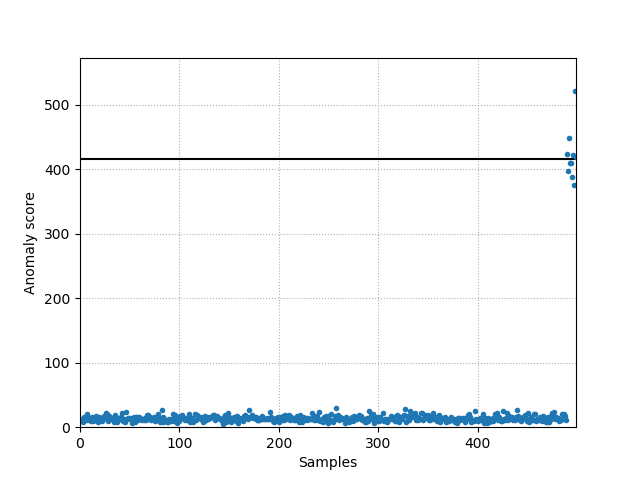
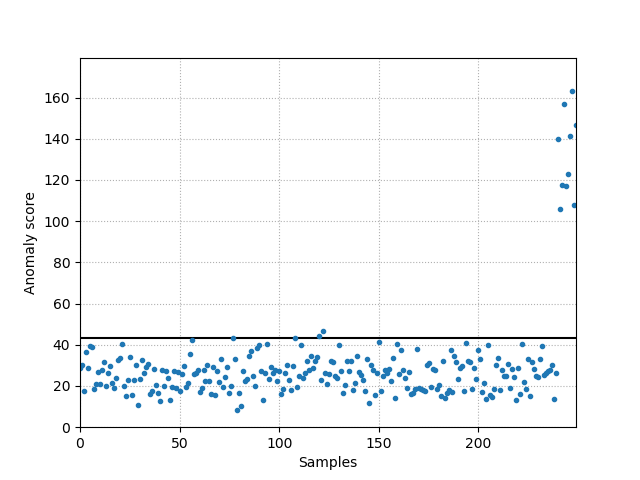
update README.rst

diff --git a/README.rst b/README.rst
@@ -56,23 +56,44 @@ Usage
 .. code:: python
 
     import matplotlib.pyplot as plt
+    import numpy as np
     from kenchi.datasets import make_blobs
     from kenchi.outlier_detection import SparseStructureLearning
 
+    train_size       = 1000
+    test_size        = 250
+    n_outliers       = 10
+    n_features       = 25
+    centers          = np.zeros((1, n_features))
+
     # Generate the training data
-    X, _ = make_blobs(centers=1, random_state=1, shuffle=False)
+    X_train, y_train = make_blobs(
+        n_inliers    = train_size,
+        n_outliers   = 0,
+        n_features   = n_features,
+        centers      = centers,
+        random_state = 1
+    )
+
+    # Generate the test data that contains outliers
+    X_test, _        = make_blobs(
+        n_inliers    = test_size - n_outliers,
+        n_outliers   = n_outliers,
+        n_features   = n_features,
+        centers      = centers,
+        random_state = 2,
+        shuffle      = False
+    )
 
     # Fit the model according to the given training data
-    det  = SparseStructureLearning(glasso_params={'alpha': 0.2}).fit(X)
+    det              = SparseStructureLearning().fit(X_train)
 
     # Plot the anomaly score for each training sample
-    det.plot_anomaly_score(linestyle='', marker='.')
+    det.plot_anomaly_score(X_test, linestyle='', marker='.')
 
     plt.show()
 
 .. image:: https://raw.githubusercontent.com/Y-oHr-N/kenchi/master/docs/images/plot_anomaly_score.png
-    :align: center
-    :alt: Anomaly score
 
 License
 -------
